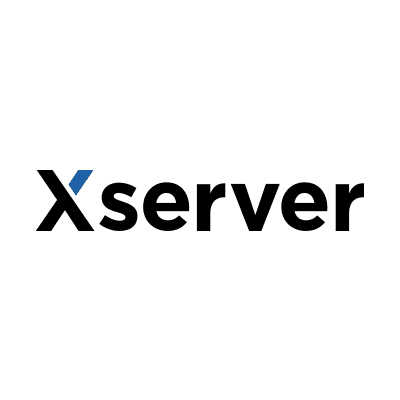
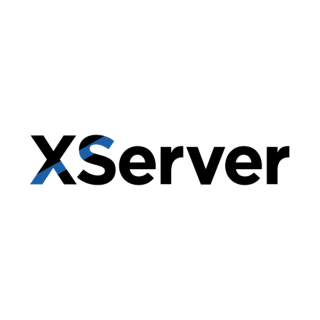
:art:

Changed region(s): [[0.0938, 0.4062, 0.7188, 0.5938], [0.7188, 0.4375, 0.9375, 0.5938]]

diff --git a/content/blog/2023-07-14-xserver.md b/content/blog/2023-07-14-xserver.md
@@ -1,8 +1,8 @@
 ---
-description: 'Xserver VPSにてMisskeyのアプリイメージが利用可能になりました'
+description: 'XServer VPSにてMisskeyのアプリイメージが利用可能になりました'
 date: 2023-07-14
 ---
 
-# NEWS: Xserver VPSでMisskeyが利用可能に
+# NEWS: XServer VPSでMisskeyが利用可能に
 
-VPSホスティングサービス、[Xserver VPS](https://vps.xserver.ne.jp/)にてMisskeyのアプリイメージが利用可能になりました！
+VPSホスティングサービス、[XServer VPS](https://vps.xserver.ne.jp/)にてMisskeyのアプリイメージが利用可能になりました！
